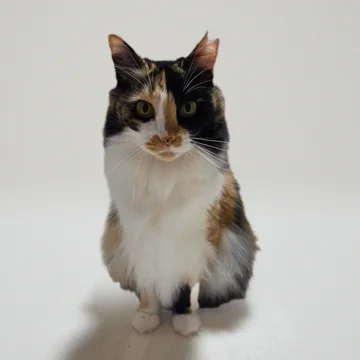
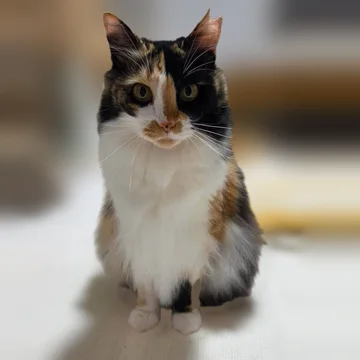
うつし絵LP: 見本のお写真をポートレート風のぼかしに

diff --git a/docs/utsushie/index.html b/docs/utsushie/index.html
@@ -181,7 +181,7 @@ footer{text-align:center;font-size:12px;color:var(--muted);padding:30px 0 90px}
     <h2 class="ehon">写真のまま描いて、<br>似顔絵で確かめてから動かす</h2>
     <p class="lead">毛色や柄は、お写真をそのまま絵にします。すでにあるスタンプの形に寄せることはしません。まず似顔絵をお見せして、「その子に見えるか」を確かめていただいてから、動きづくりに進みます。</p>
     <div class="frames">
-      <div class="frame"><div class="pic"><img src="assets/sample_tester.webp?v=2" alt="テスターさんの子のお写真（正面のお座り）" style="width:100%"></div><b>お写真</b><small>正面・横・全身の3枚以上</small></div>
+      <div class="frame"><div class="pic"><img src="assets/sample_tester.webp?v=3" alt="テスターさんの子のお写真（正面のお座り）" style="width:100%"></div><b>お写真</b><small>正面・横・全身の3枚以上</small></div>
       <svg class="arrow" viewBox="0 0 40 20" fill="none" stroke="currentColor" stroke-width="2" stroke-linecap="round"><path d="M2 10c10-6 20 6 34 0M30 4l6 6-6 6"/></svg>
       <div class="frame"><div class="pic"><img src="assets/nigaoe.webp" alt="似顔絵の見本（テスターさんの子）"></div><b>似顔絵</b><small>「その子に見えるか」を確認</small></div>
       <svg class="arrow" viewBox="0 0 40 20" fill="none" stroke="currentColor" stroke-width="2" stroke-linecap="round"><path d="M2 10c10-6 20 6 34 0M30 4l6 6-6 6"/></svg>
